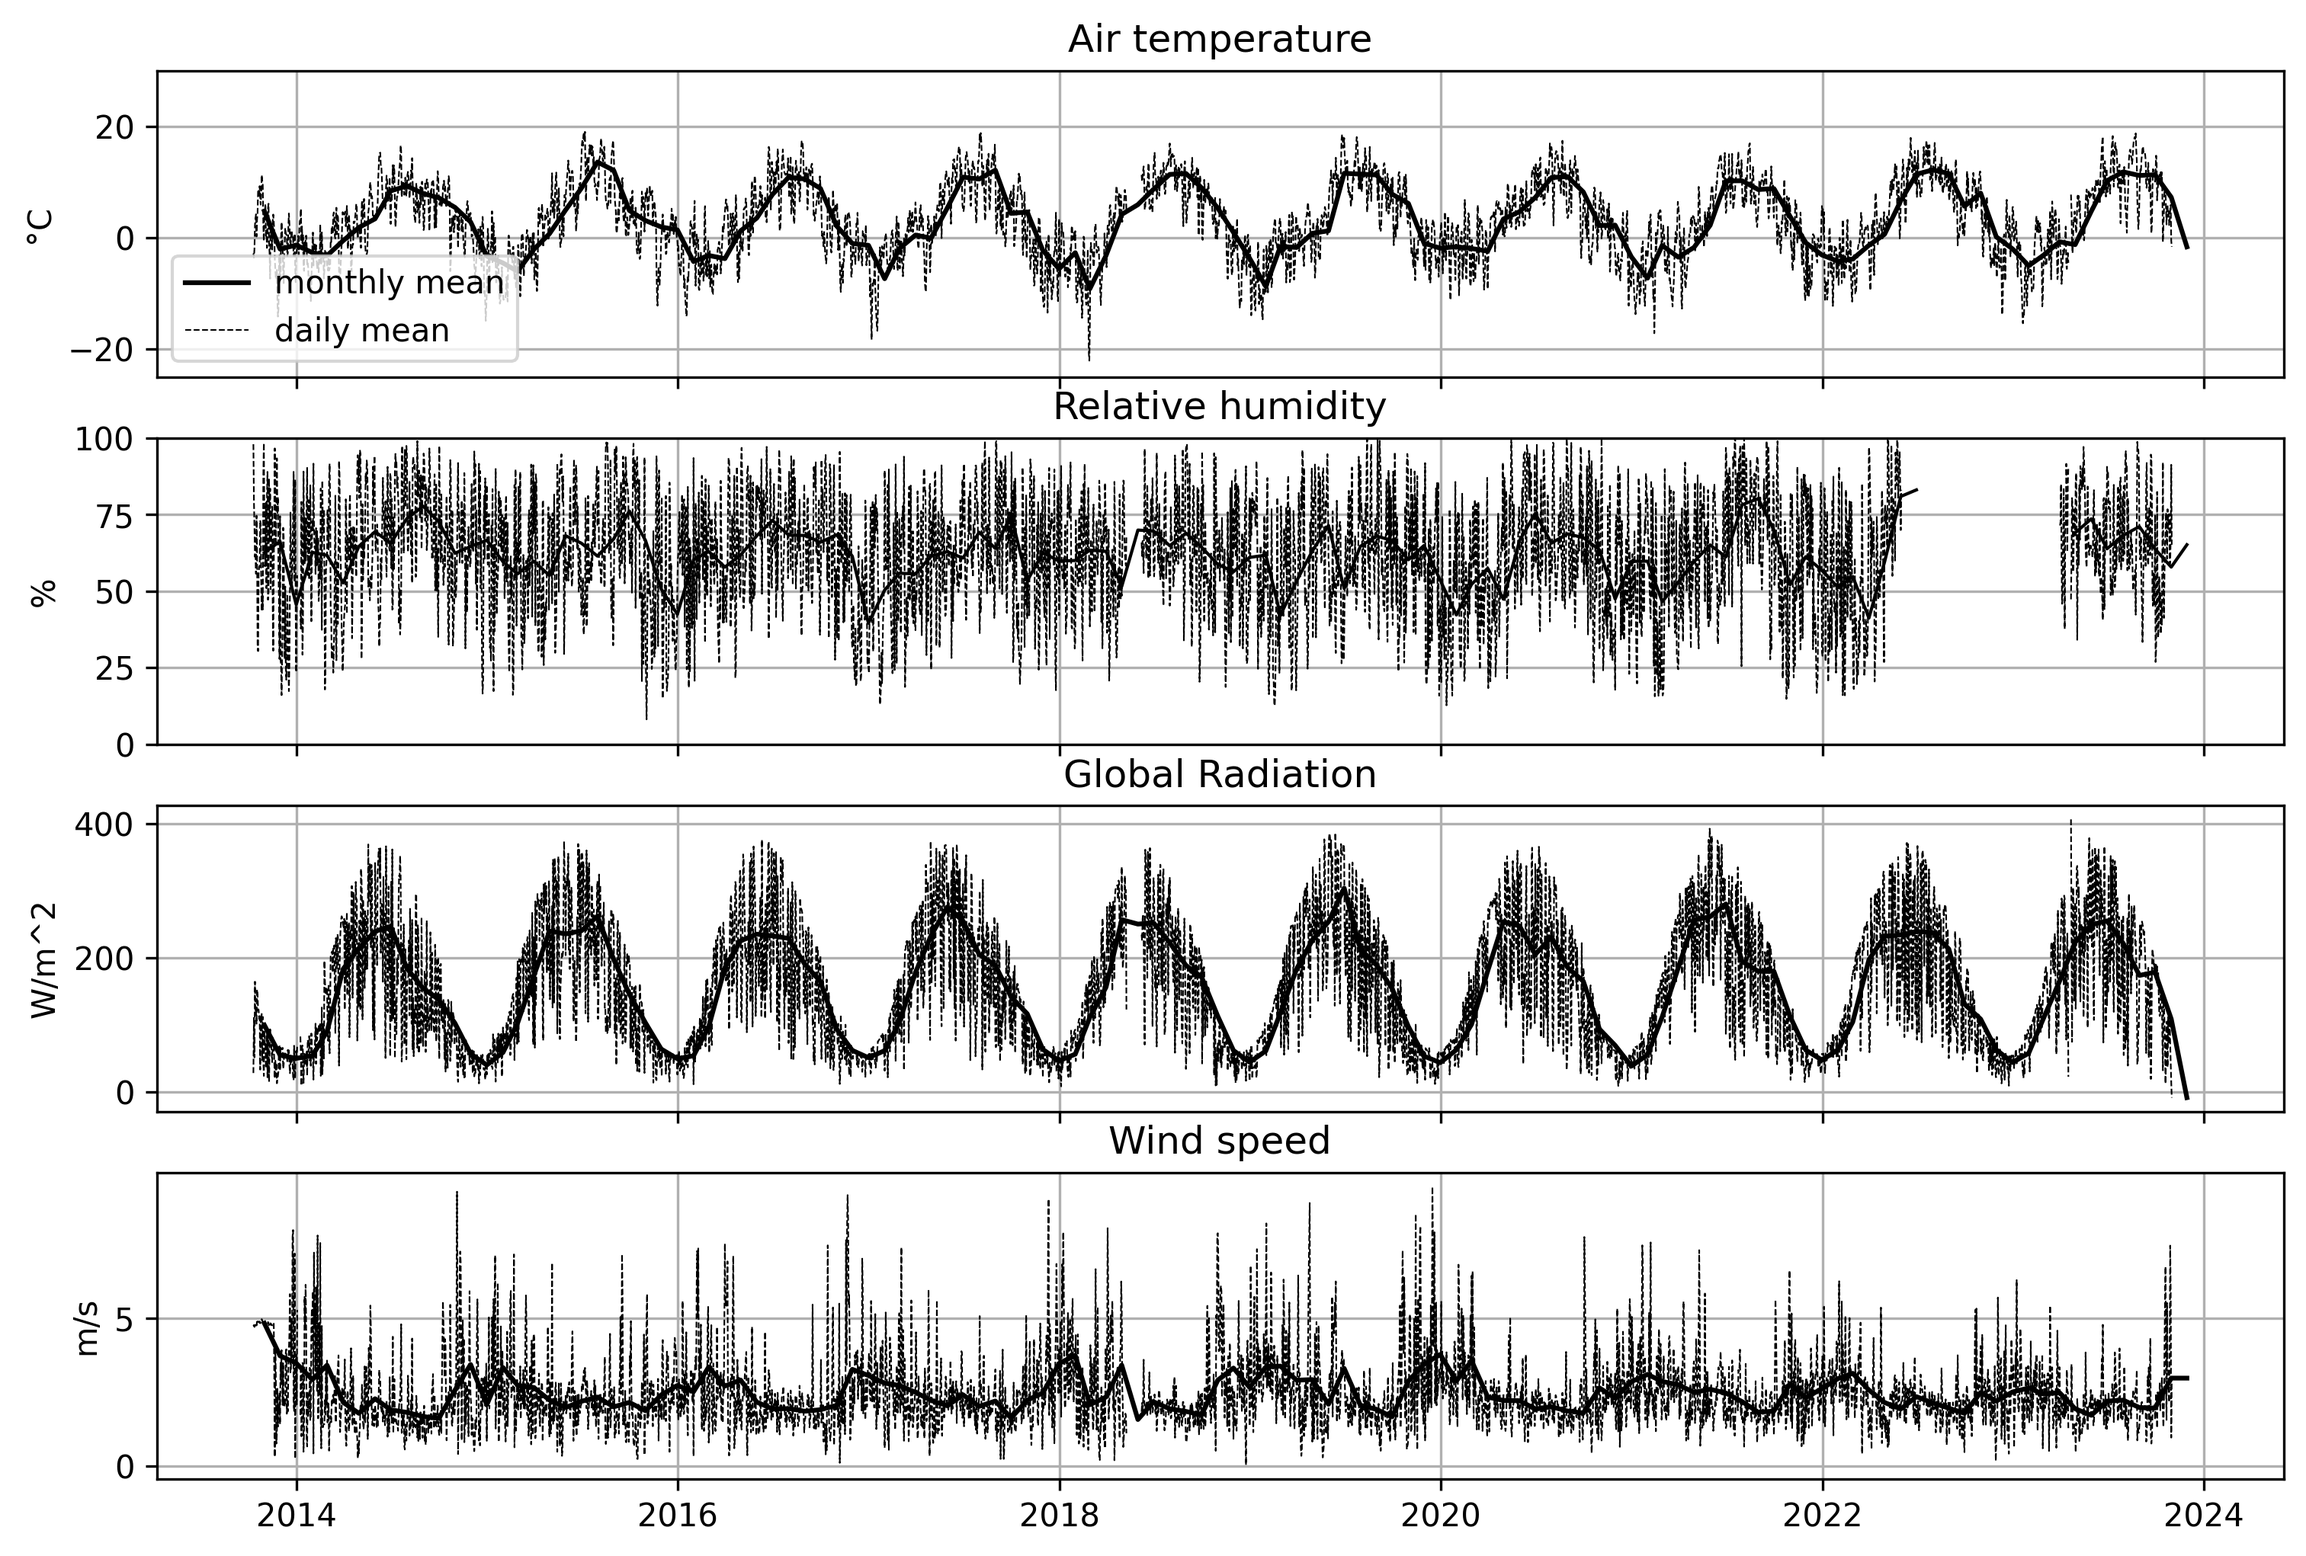
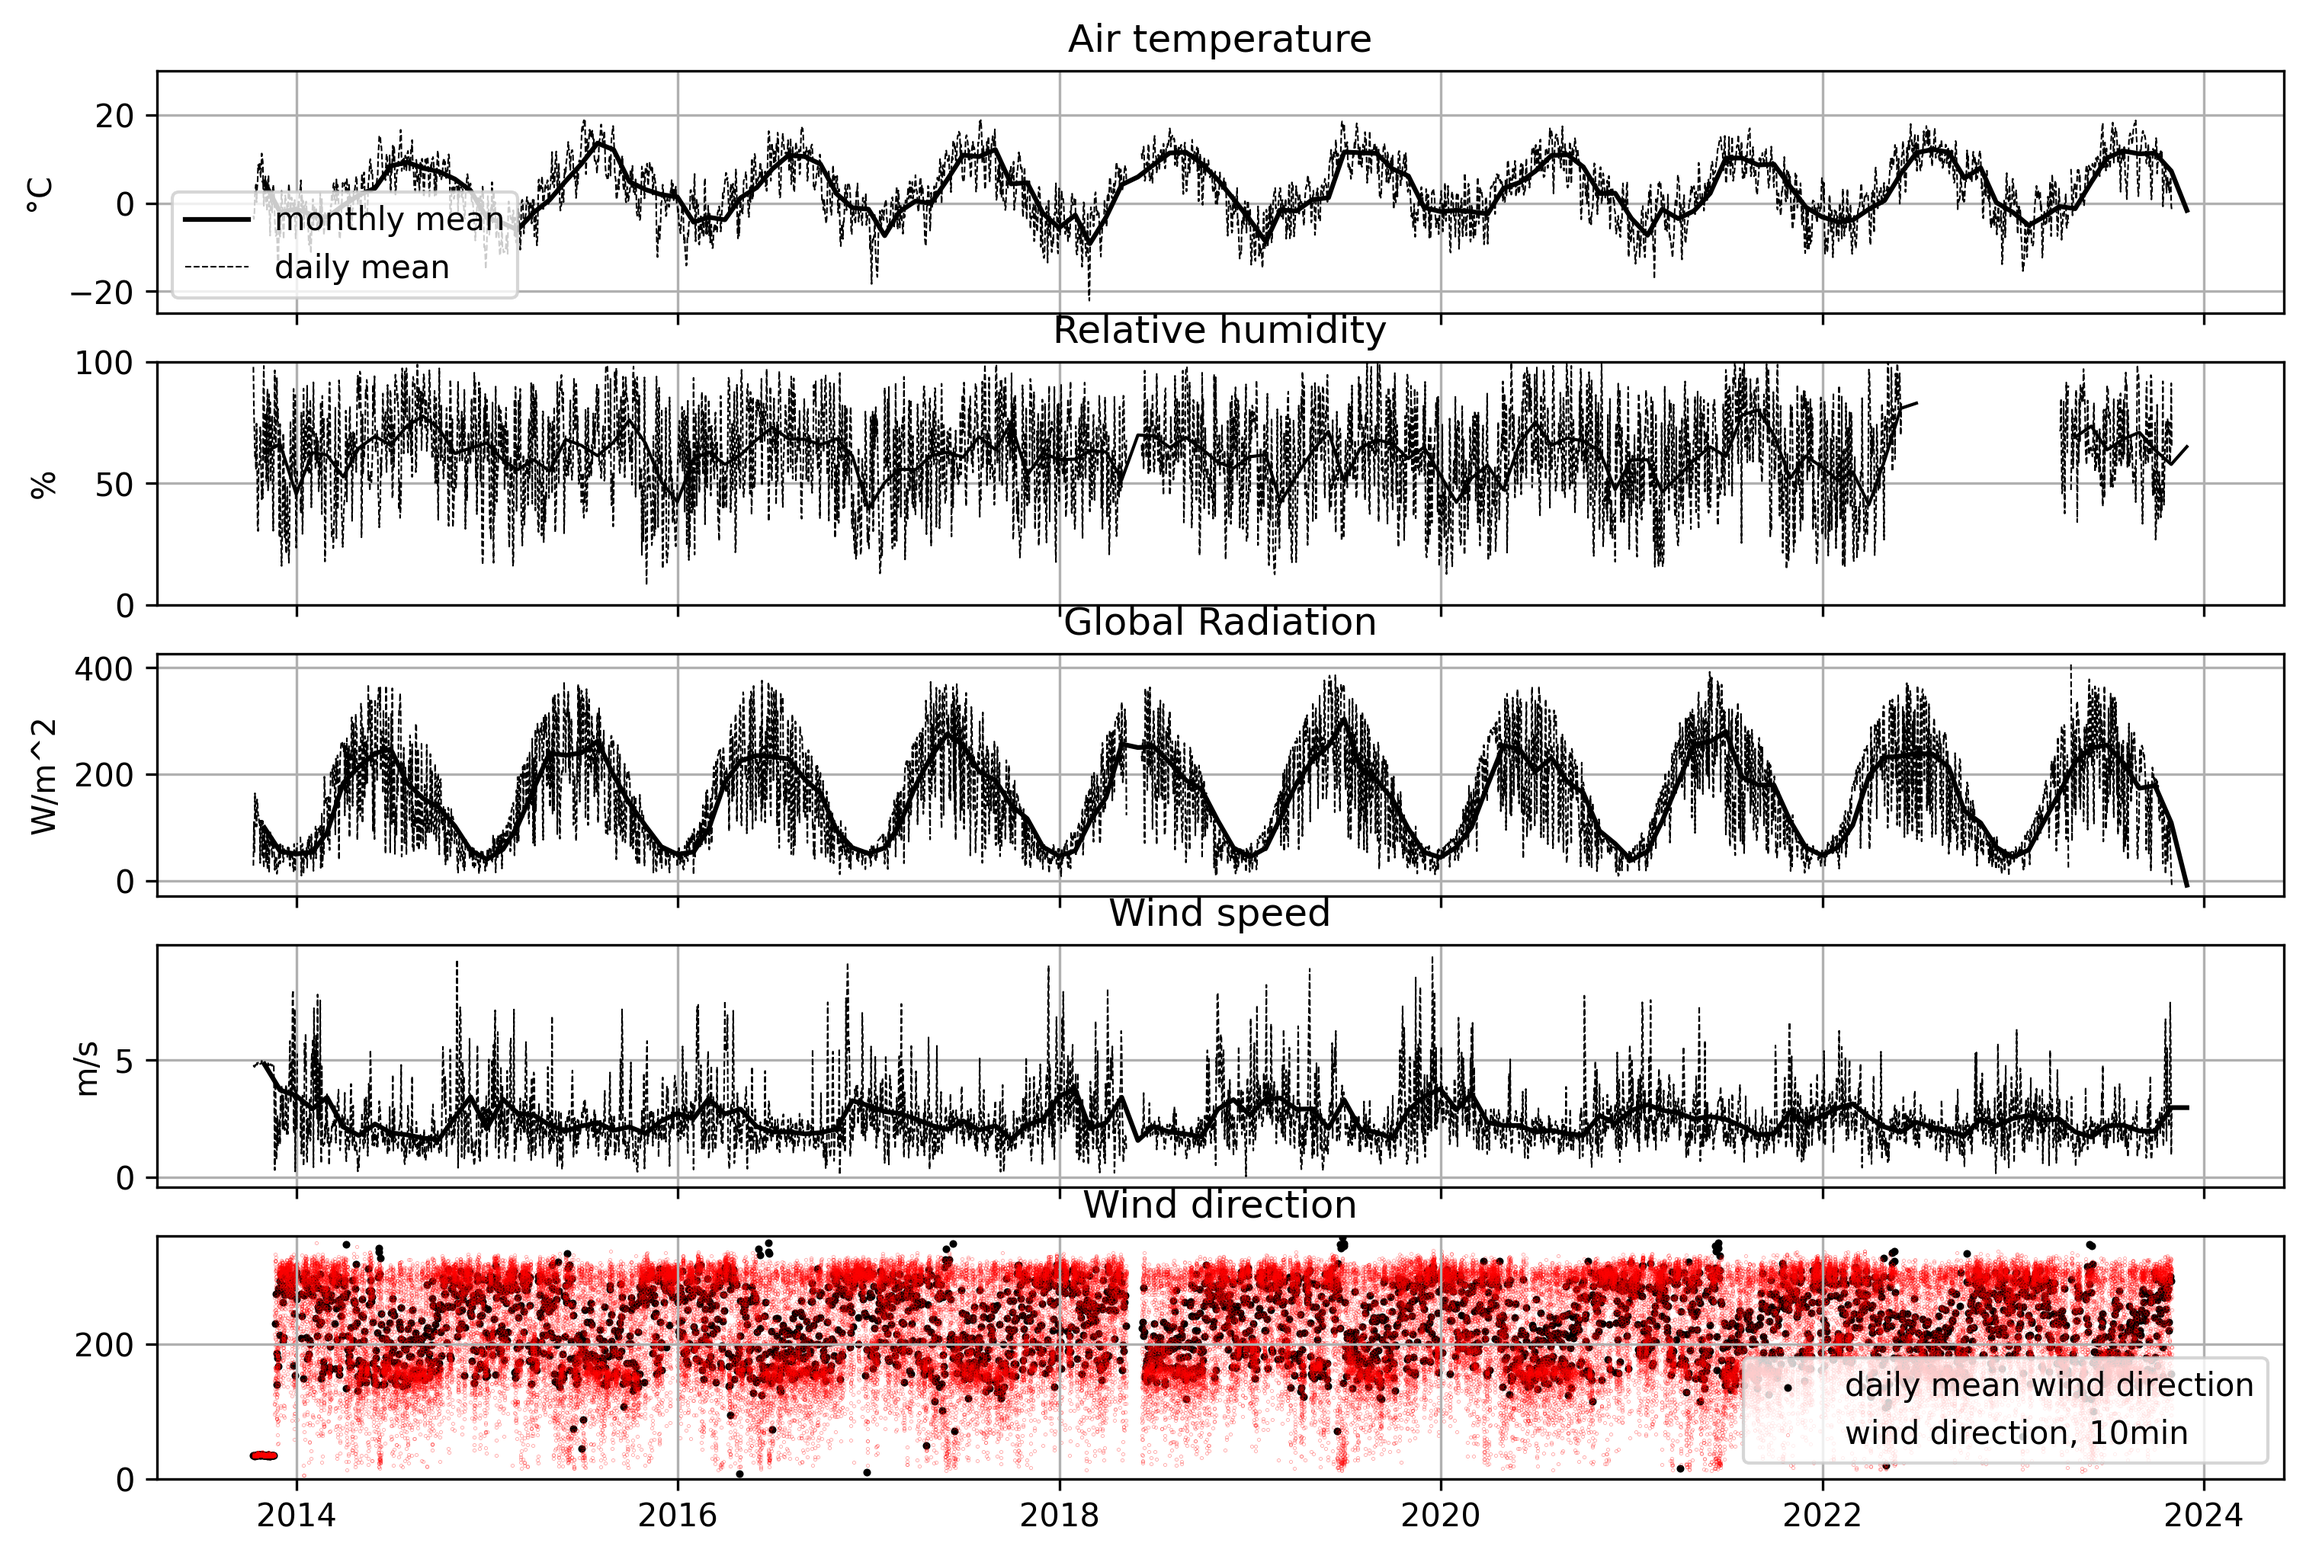
added circmean for wind dir

diff --git a/AWS_Jam_exampleplt.py b/AWS_Jam_exampleplt.py
@@ -2,6 +2,7 @@ import pandas as pd
 import numpy as np
 import matplotlib.pyplot as plt
 import datetime
+from scipy.stats import circmean
 
 # load data
 filename = 'dataMerged.csv'
@@ -12,7 +13,11 @@ data = pd.read_csv(filename, index_col=0, parse_dates=True, na_values=-777.0)
 # Correction with sensor temperature!
 data['LWin_Cor'] = data['LWin']+5.67*10**-8 * (data['SensorTemp']+273.15)**4
 data['LWout_Cor'] = data['LWout']+5.67*10**-8 * (data['SensorTemp']+273.15)**4
+print(data.head())
 
+
+def circular_mean(x):
+    return round(np.rad2deg(circmean(np.deg2rad(x['WindDir'].values))),2)
 
 # function to make a time series plot for some of teh parameters:
 def timeseriesplot(df):
@@ -33,8 +38,8 @@ def timeseriesplot(df):
     # df_mnth['year'] = df_mnth.index.year
     # df_mnth_p = df_mnth.pivot(index='month', columns='year', values='AirTemp')
 
-    # initialize a figrue with four subplots arranged underneath each other
-    fig, ax = plt.subplots(4, 1, figsize=(12, 8), sharex=True)
+    # initialize a figrue with five subplots arranged underneath each other
+    fig, ax = plt.subplots(5, 1, figsize=(12, 8), sharex=True)
     ax = ax.flatten()
 
     # air temperature
@@ -76,6 +81,20 @@ def timeseriesplot(df):
     ax[3].set_ylabel('m/s')
     # ax[3].set_ylim([0, 18])
     ax[3].set_title('Wind speed')
+
+
+    # wind dir - circmean
+
+    wdir = df.resample('d').apply(circular_mean)
+    # circular mean:
+    ax[4].scatter(wdir.index, wdir.values, c='k', label='daily mean wind direction', s=2)
+    # non circular mean: uncomment to see how it compares
+    # ax[4].scatter(df_mean.index, df_mean.WindDir, c='g', label='non-circular mean', s=2)
+    ax[4].scatter(df.index, df.WindDir, c='r', label='wind direction, 10min', s=0.005)
+    ax[4].set_ylim(0, 360)
+    ax[4].set_title('Wind direction')
+    ax[4].legend()
+    ax[4].grid('both')
 
     # save the figure to a folder called "figs" - adjust path and filename as needed!
     fig.savefig('figs/JAM_meteo_daily_monthly.png', bbox_inches='tight', dpi=300)
